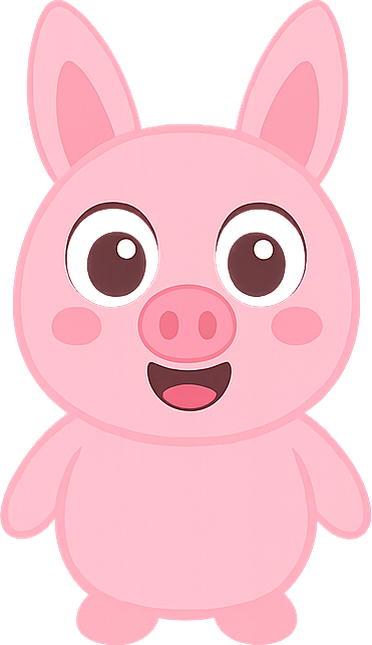
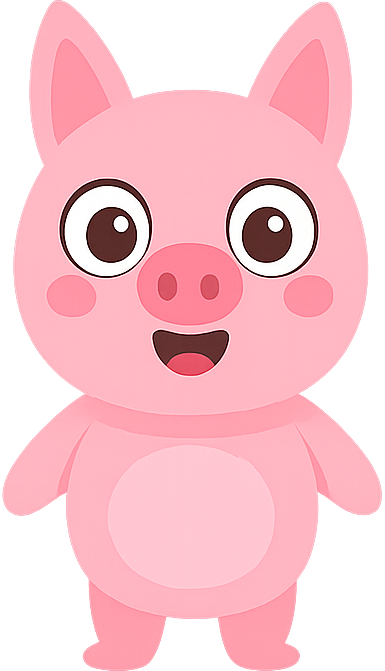
Caras aprobadas: ojos con blanco opaco, Percy rehecho, Zibu triste/riendo/parpadeo corregidos

diff --git a/scripts/v2_assets.py b/scripts/v2_assets.py
@@ -23,7 +23,11 @@ STYLE = ("Polished 2D cartoon style for a preschool show, soft shading and gentl
          "NO text.")
 DESC = {"zibu": ("Zibu, the round blue monster: his head and body are ONE single round ball (no neck, no torso), "
                  "with big eyes, a yellow ball antenna on top, two small arms and two small feet"),
-        "lila": "Lila, the pink bunny with long ears and a purple bow on one ear (the bow is always there)"}
+        "lila": "Lila, the pink bunny with long ears and a purple bow on one ear (the bow is always there)",
+        "piglet": ("Percy, a cute pink piglet: a round pink head with TWO pointy pink ears (one on each side, both always "
+                   "visible), big round eyes with WHITE eyeballs and dark brown pupils, a round pink snout with two "
+                   "nostrils, rosy cheeks, a small round pink body with a lighter belly, short arms and short legs. "
+                   "No bow, no accessories")}
 CARAS = {
     "talk": "mouth wide open as if talking happily (the rest of the face the same)",
     "blink": "both eyes closed in a happy relaxed way, mouth closed smile",
@@ -278,8 +282,9 @@ EXPR = {
     "happy": "happy, gentle smile",
     "neutral": "calm and neutral, relaxed face",
     "surprised": "surprised, eyes wide open, eyebrows raised",
-    "sad": "sad, worried eyebrows",
-    "laugh": "laughing with joy, happy squinting eyes",
+    "sad": ("sad: worried eyebrows and a small frown, but the eyes drawn EXACTLY like the reference (white eyeballs "
+            "with the same pupils, same colors)"),
+    "laugh": "laughing with joy, happy squinting eyes, arms DOWN and relaxed exactly like the reference",
 }
 
 
@@ -298,11 +303,14 @@ def pareja(quien: str, expr: str, refs: list[Path], intentos: int = 4) -> list[I
     extra = expr == "happy"
     n = 3 if extra else 2
     caras = ("1) mouth CLOSED; 2) mouth OPEN as if talking (the only difference is the mouth)" +
-             ("; 3) eyes closed in a happy blink, mouth closed" if extra else ""))
+             ("; 3) eyes closed in a happy blink, mouth closed (everything else identical, including any bow or "
+              "accessory)" if extra else ""))
     prompt = (f"{n} drawings of {desc}, side by side in one row, IDENTICAL in everything (same size, same full-body "
-              f"standing pose facing the viewer, same position, same expression: {EXPR[expr]}) except the mouth: "
+              f"standing pose facing the viewer with the arms down and relaxed exactly like the reference image, same "
+              f"position, same expression: {EXPR[expr]}) except the mouth: "
               f"{caras}. Big empty margin around every figure: NOTHING may touch or cross the edges of the image "
               "(ears, antenna and feet fully inside, at least 60 pixels from every edge). "
+              "Only the BACKGROUND is transparent: the eyes keep solid opaque WHITE eyeballs. "
               "Fully TRANSPARENT background, no scenery, no text, no shadows. " + STYLE)
     for _ in range(intentos):
         raw = edit_multi(refs, prompt, size="1536x1024", quality="high", transparent=True)
@@ -341,7 +349,7 @@ def pairs(quien: str) -> None:
     """public/v2/chars3/<quien>/<expr>_closed.png, <expr>_open.png y happy_blink.png, todas en el mismo lienzo."""
     out = V2 / "chars3" / quien
     out.mkdir(parents=True, exist_ok=True)
-    especie = "puppy" if quien in DESC else quien
+    especie = "puppy" if quien in ("zibu", "lila") else quien
     refs = [BASE / "public" / "ref" / f"cast-{especie}.png"]
     figs_all = {}
     for expr in EXPR:
@@ -358,10 +366,67 @@ def pairs(quien: str) -> None:
         for nombre, f in zip(nombres, figs):
             lienzo = Image.new("RGBA", (W, H), (0, 0, 0, 0))
             lienzo.alpha_composite(f, ((W - f.width) // 2, H - f.height))
+            # el blanco de los ojos nunca transparente; en el parpadeo el ojo cerrado es piel (parpado), no blanco
+            lienzo = tapar_huecos(lienzo, color_piel(lienzo) if nombre.endswith("blink") else None)
             lienzo.save(out / f"{nombre}.png")
             figs_all[nombre] = lienzo
         print(f"  {quien} {expr}")
 
 
-if __name__ == "__main__" and sys.argv[1] == "pairs":
+
+
+def color_piel(im: Image.Image) -> tuple[int, int, int]:
+    """Color mas comun de la cara (zona central de arriba), sin contar blancos, negros ni transparentes."""
+    from collections import Counter
+    im = im.convert("RGBA")
+    b = im.getchannel("A").point(lambda v: 255 if v > 24 else 0).getbbox()
+    h = b[3] - b[1]
+    zona = im.crop((b[0] + (b[2] - b[0]) // 4, b[1] + h // 6, b[2] - (b[2] - b[0]) // 4, b[1] + h // 2))
+    cuenta = Counter((r // 8 * 8, g // 8 * 8, bl // 8 * 8) for r, g, bl, a in zona.getdata()
+                     if a > 200 and not (r > 225 and g > 225 and bl > 225) and r + g + bl > 120)
+    return cuenta.most_common(1)[0][0]
+
+
+def tapar_huecos(im: Image.Image, relleno: tuple[int, int, int] | None = None) -> Image.Image:
+    """Al pedir fondo transparente la IA tambien deja transparente el blanco de los ojos (se ve el paisaje a traves).
+    Todo hueco transparente ENCERRADO dentro de la figura (no conectado con el exterior) en la mitad de arriba
+    (la cara) y pequeno se rellena de blanco."""
+    from PIL import ImageDraw
+    im = im.convert("RGBA")
+    w, h = im.size
+    m = Image.new("L", (w + 2, h + 2), 0)
+    m.paste(im.getchannel("A").point(lambda v: 255 if v > 24 else 0), (1, 1))
+    ImageDraw.floodfill(m, (0, 0), 128)           # el exterior conectado con el borde
+    m = m.crop((1, 1, w + 1, h + 1))
+    px, mp = im.load(), m.load()
+    visto = set()
+    caja = im.getchannel("A").point(lambda v: 255 if v > 24 else 0).getbbox()
+    alto_fig = caja[3] - caja[1]
+    for y in range(h):
+        for x in range(w):
+            if mp[x, y] != 0 or (x, y) in visto:
+                continue
+            # region del hueco (pila)
+            pila, region = [(x, y)], []
+            visto.add((x, y))
+            while pila:
+                cx, cy = pila.pop()
+                region.append((cx, cy))
+                for nx, ny in ((cx + 1, cy), (cx - 1, cy), (cx, cy + 1), (cx, cy - 1)):
+                    if 0 <= nx < w and 0 <= ny < h and mp[nx, ny] == 0 and (nx, ny) not in visto:
+                        visto.add((nx, ny))
+                        pila.append((nx, ny))
+            ys = [p[1] for p in region]
+            en_cara = (sum(ys) / len(ys) - caja[1]) < 0.62 * alto_fig
+            if en_cara and len(region) < 0.08 * w * h:
+                for rx, ry in region:
+                    r, g, b, a = px[rx, ry]
+                    # mezcla con lo que hubiera (bordes suaves) hacia blanco opaco
+                    k = a / 255
+                    fr, fg, fb = relleno or (255, 255, 255)
+                    px[rx, ry] = (int(r * k + fr * (1 - k)), int(g * k + fg * (1 - k)), int(b * k + fb * (1 - k)), 255)
+    return im
+
+
+if __name__ == "__main__" and sys.argv[1] == "pairs":   # al final: usa funciones definidas mas arriba
     pairs(sys.argv[2])
